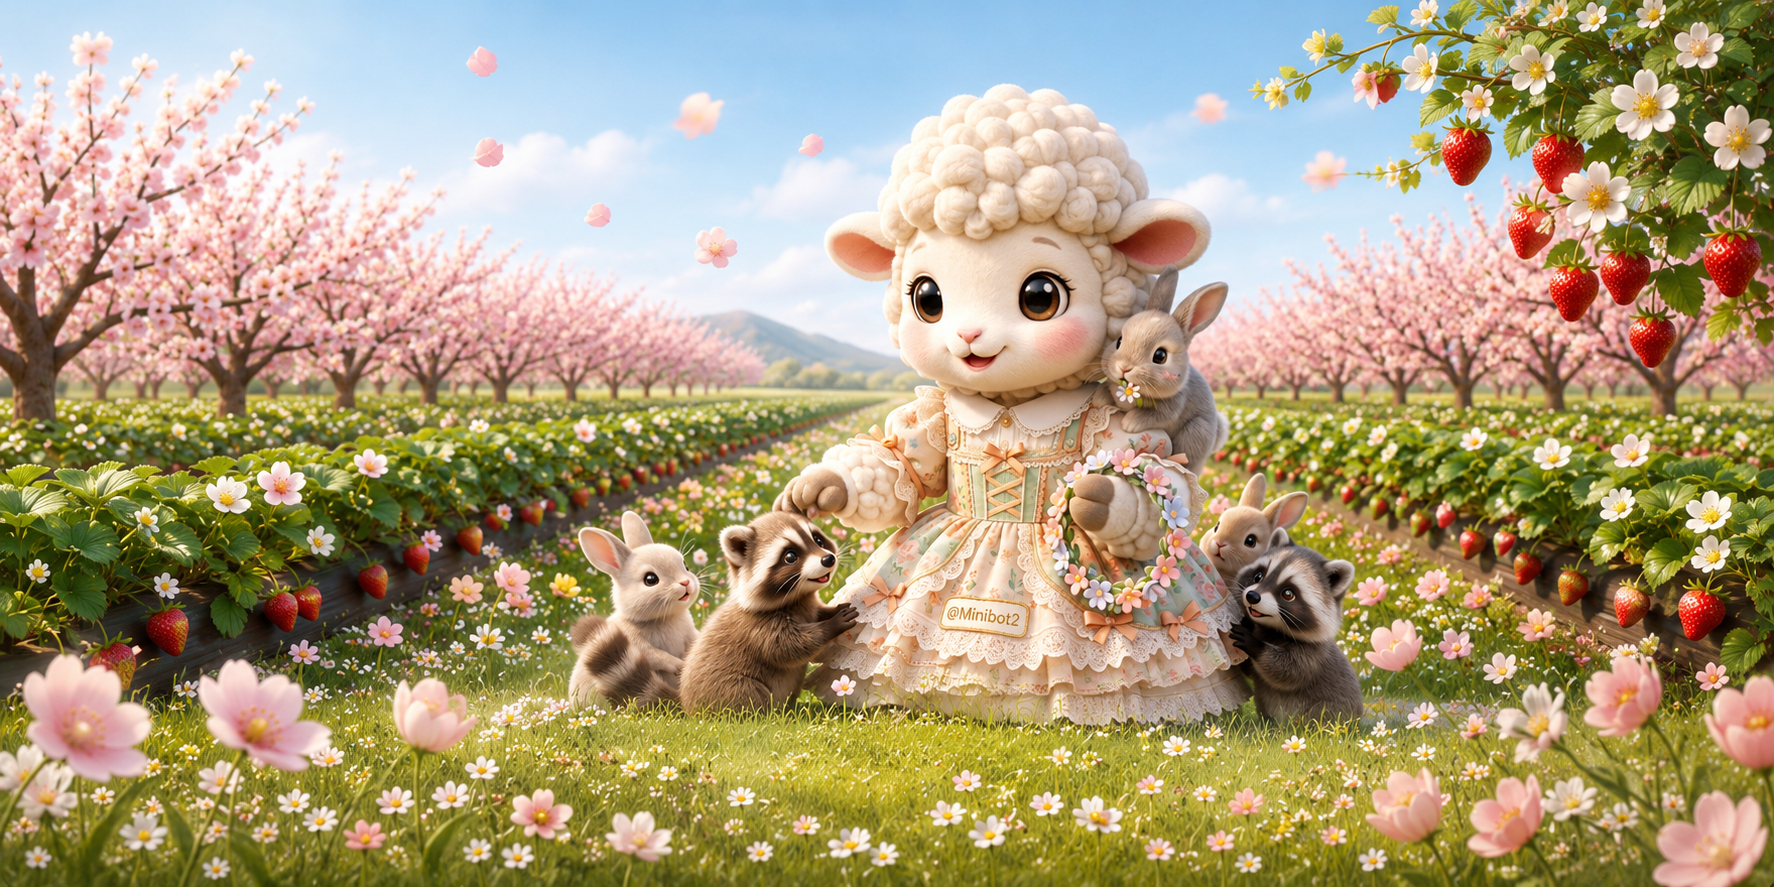
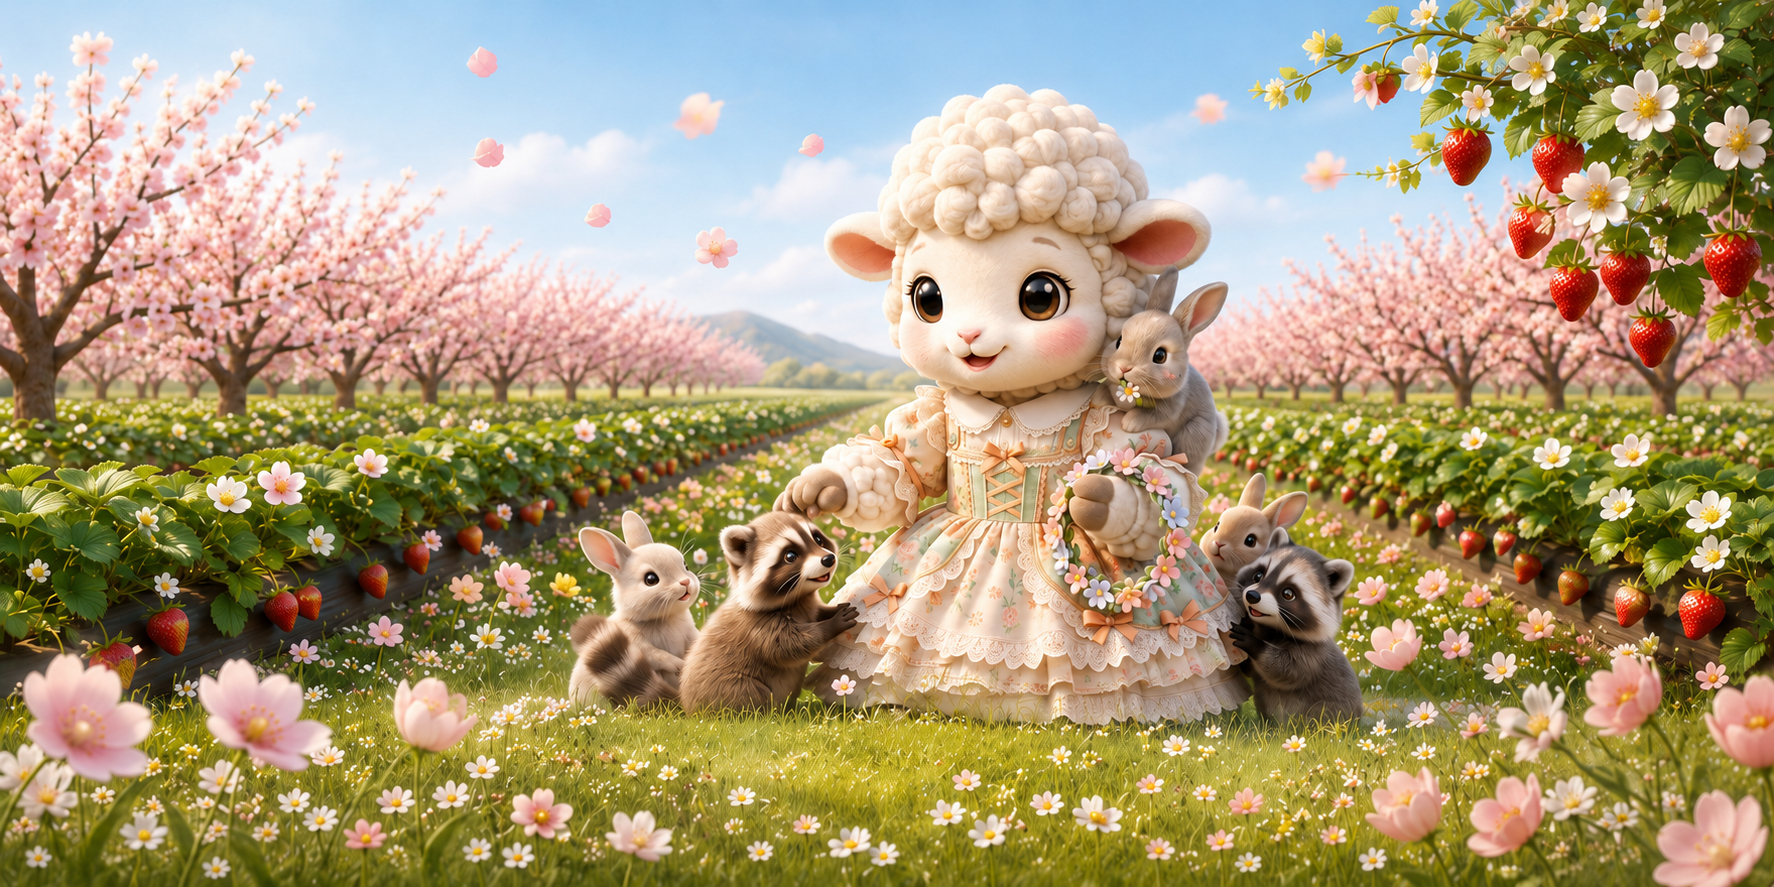
배너수정

diff --git a/style.css b/style.css
@@ -7936,3 +7936,12 @@ body:has(.explore-card) .intro h2{
 
     text-align:center;
 }
+@media (max-width: 768px) {
+    .hero {
+        height: 240px;
+        overflow: hidden;
+        background-size: cover;
+        background-position: center;
+        background-repeat: no-repeat;
+    }
+}